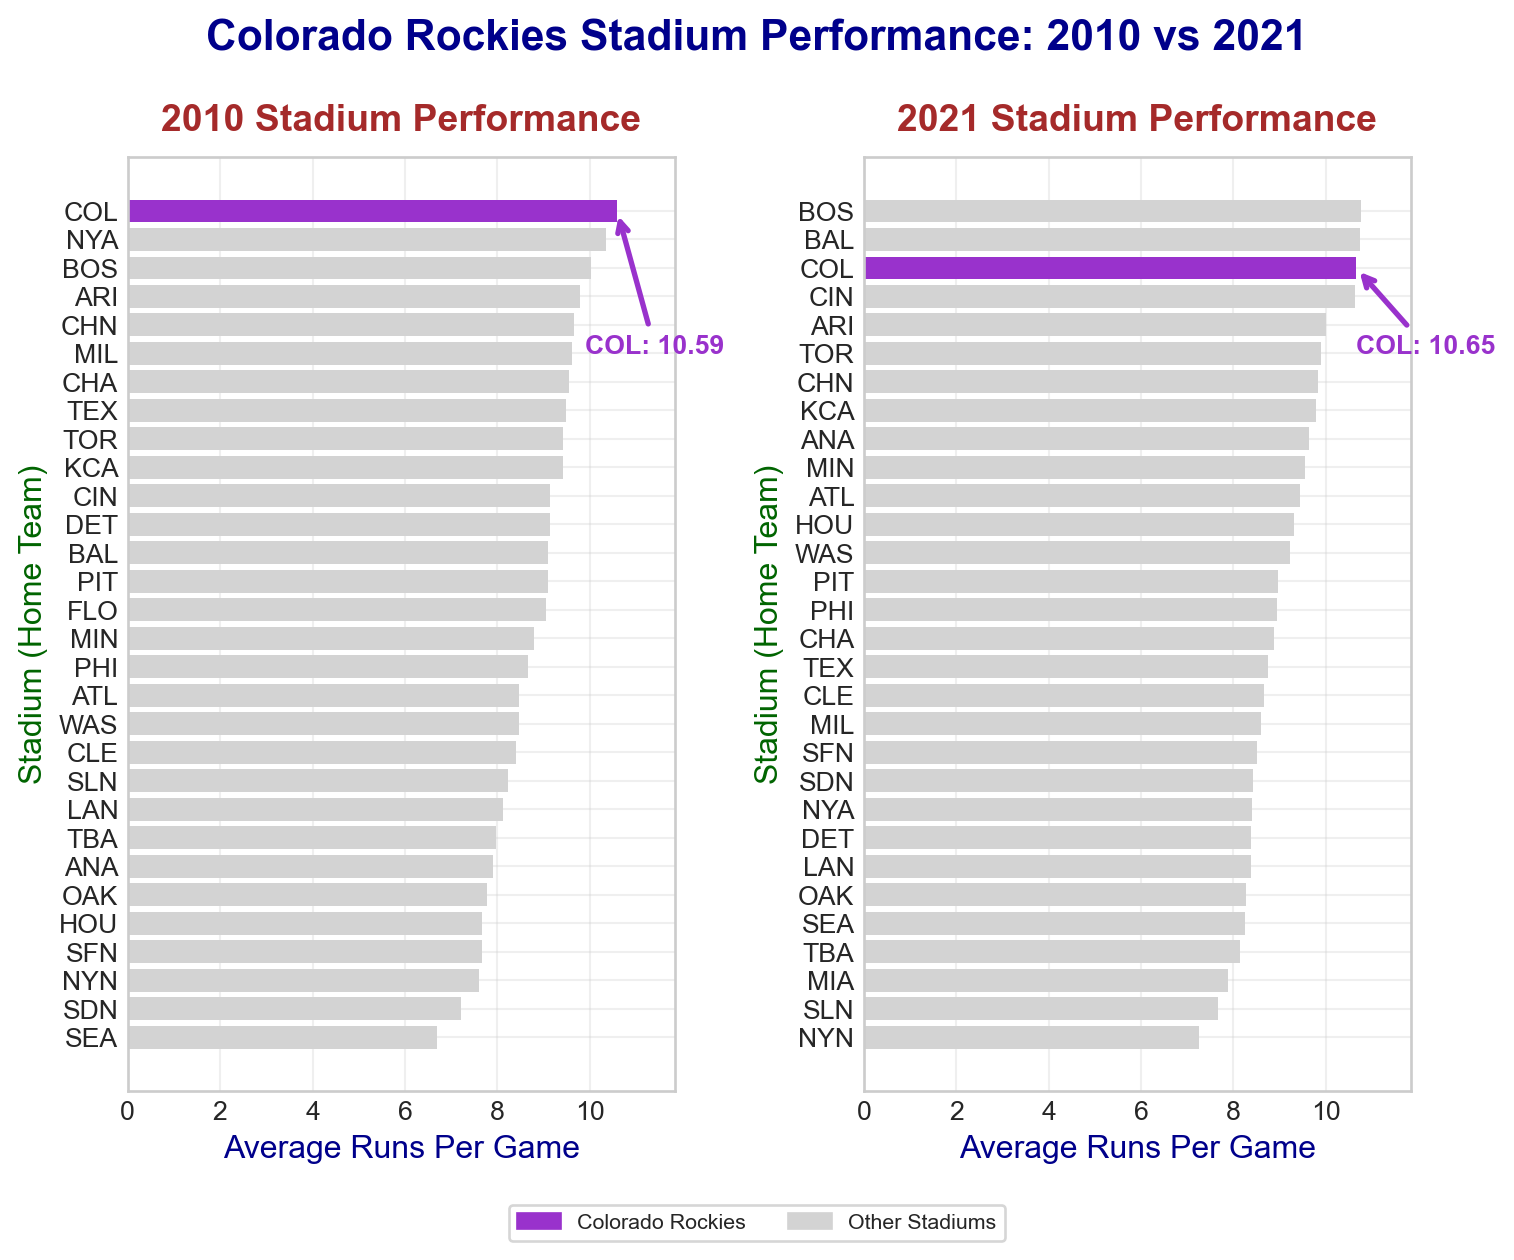
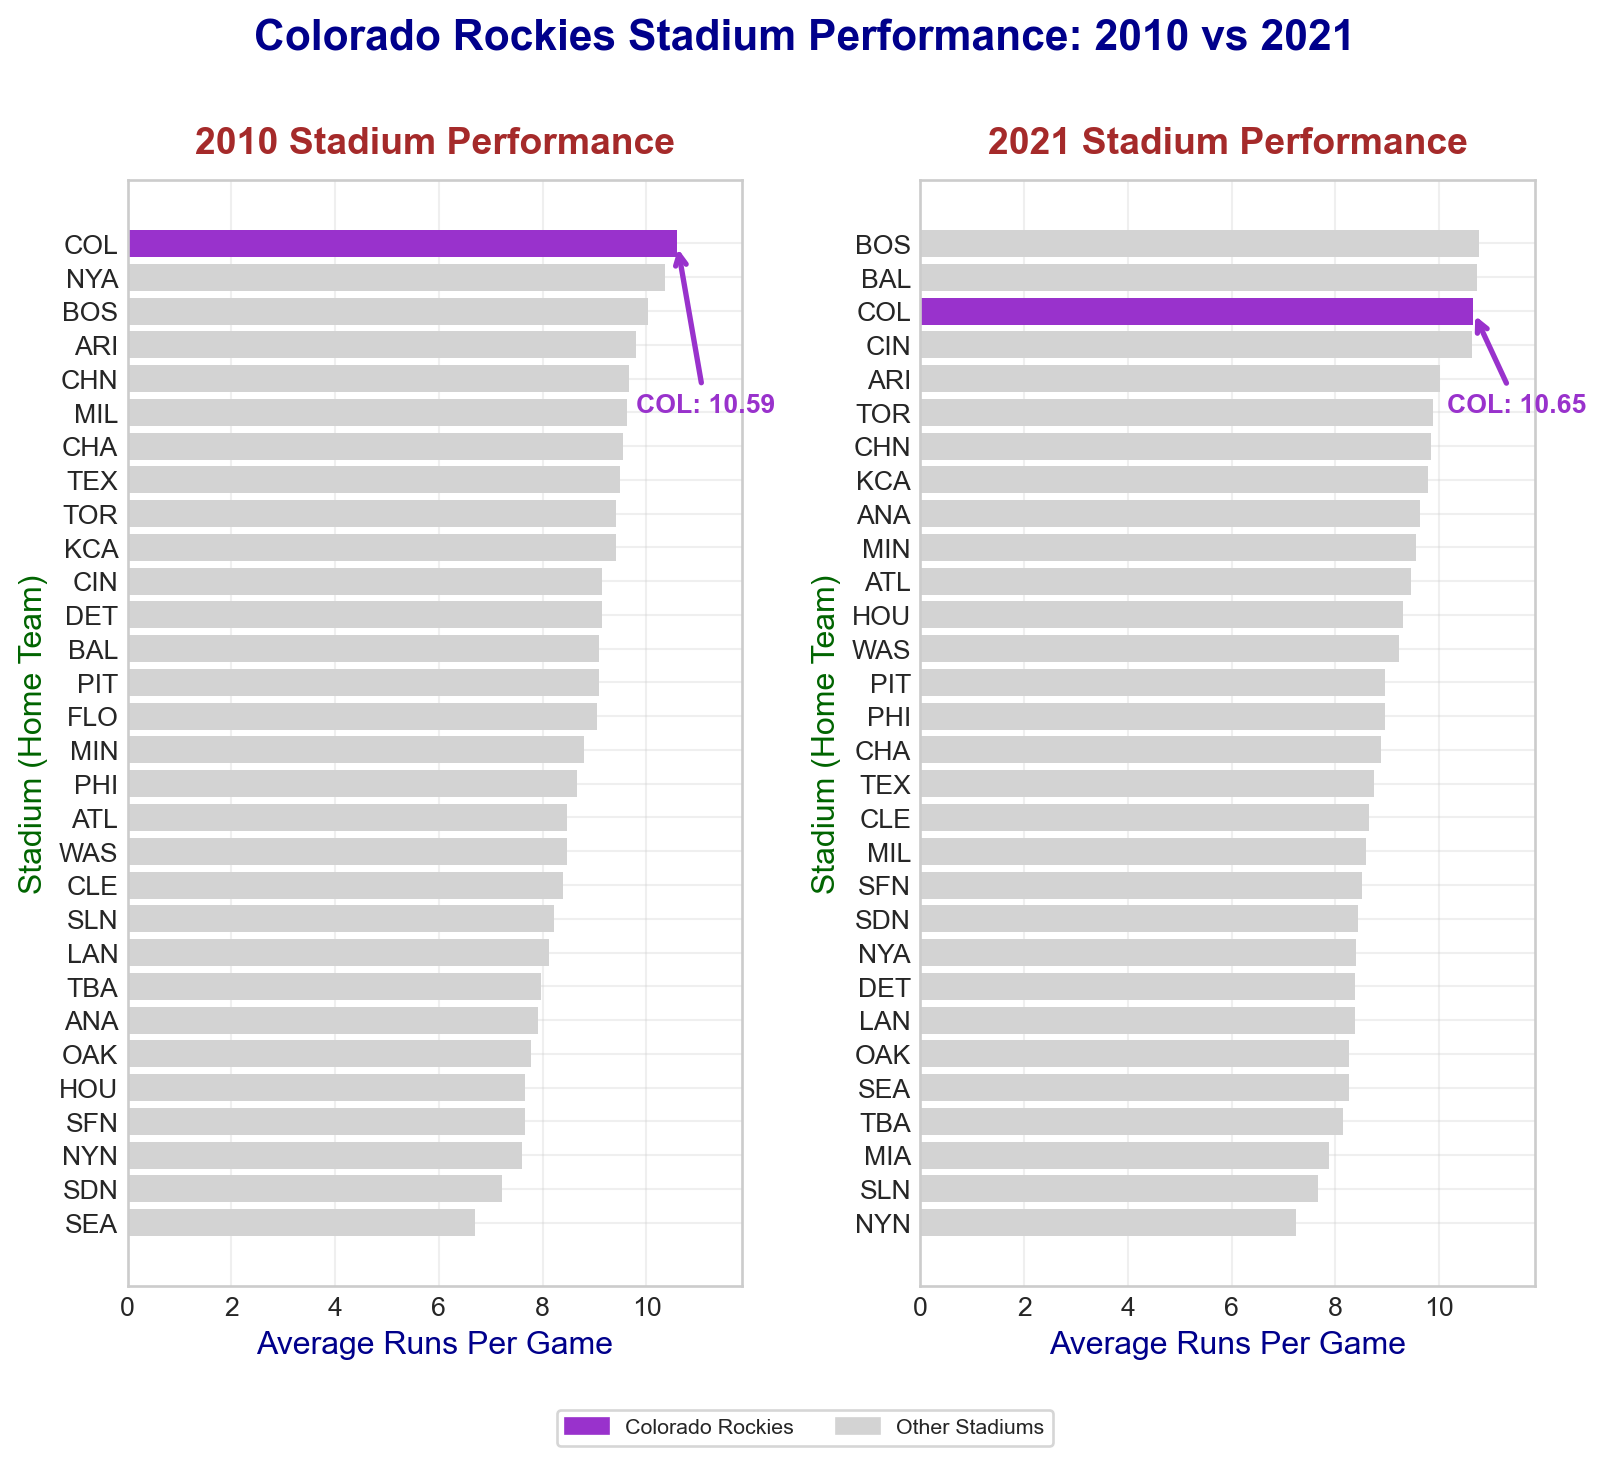
datavizchallenge

diff --git a/index.html b/index.html
@@ -302,7 +302,7 @@ First few rows of 2010 data:
 </div>
 </div>
 <p><strong>Answer:</strong></p>
-<div id="17a35d03" class="cell" data-execution_count="3">
+<div id="47ace347" class="cell" data-execution_count="3">
 <div class="code-copy-outer-scaffold"><div class="sourceCode cell-code" id="cb5"><pre class="sourceCode python code-with-copy"><code class="sourceCode python"><span id="cb5-1"><a href="#cb5-1" aria-hidden="true" tabindex="-1"></a><span class="bu">print</span>(<span class="ss">f"</span><span class="ch">\n</span><span class="ss">Total games in 2010: </span><span class="sc">{</span><span class="bu">len</span>(df2010)<span class="sc">}</span><span class="ss">"</span>)</span>
 <span id="cb5-2"><a href="#cb5-2" aria-hidden="true" tabindex="-1"></a><span class="bu">print</span>(<span class="ss">f"Total games in 2021: </span><span class="sc">{</span><span class="bu">len</span>(df2021)<span class="sc">}</span><span class="ss">"</span>)</span>
 <span id="cb5-3"><a href="#cb5-3" aria-hidden="true" tabindex="-1"></a><span class="bu">print</span>(<span class="ss">f"Total games across both seasons: </span><span class="sc">{</span><span class="bu">len</span>(df2010) <span class="op">+</span> <span class="bu">len</span>(df2021)<span class="sc">}</span><span class="ss">"</span>)</span>
@@ -333,7 +333,7 @@ First few rows of 2010 data:
 <ul>
 <li>There are total of 4859 games from 2010 and 2021 seasons. 2430 games in 2010 and 2429 games in 2021.</li>
 </ul>
-<div id="1685a4c7" class="cell" data-execution_count="4">
+<div id="3a50c1c7" class="cell" data-execution_count="4">
 <div class="code-copy-outer-scaffold"><div class="sourceCode cell-code" id="cb7"><pre class="sourceCode python code-with-copy"><code class="sourceCode python"><span id="cb7-1"><a href="#cb7-1" aria-hidden="true" tabindex="-1"></a>home_run_2010 <span class="op">=</span> df2010.groupby(<span class="st">'home'</span>).size().sort_values(ascending<span class="op">=</span><span class="va">False</span>)</span>
 <span id="cb7-2"><a href="#cb7-2" aria-hidden="true" tabindex="-1"></a><span class="bu">print</span>(home_run_2010.head(<span class="dv">3</span>))</span>
 <span id="cb7-3"><a href="#cb7-3" aria-hidden="true" tabindex="-1"></a></span>
@@ -442,7 +442,7 @@ dtype: int64</code></pre>
 <h2 class="anchored" data-anchor-id="stage-4-formatting-for-your-audience">Stage 4: Formatting for Your Audience</h2>
 <p><strong>Mental Model:</strong> Polish your visualization for professional presentation.</p>
 <p>Let’s create a publication-ready visualization:</p>
-<div id="ce992fac" class="cell" data-execution_count="6">
+<div id="3e87d8c0" class="cell" data-execution_count="6">
 <div class="code-copy-outer-scaffold"><div class="sourceCode cell-code" id="cb10"><pre class="sourceCode python code-with-copy"><code class="sourceCode python"><span id="cb10-1"><a href="#cb10-1" aria-hidden="true" tabindex="-1"></a><span class="co"># Stage 4: Formatting for Your Audience</span></span>
 <span id="cb10-2"><a href="#cb10-2" aria-hidden="true" tabindex="-1"></a><span class="co"># Create a professional, publication-ready visualization</span></span>
 <span id="cb10-3"><a href="#cb10-3" aria-hidden="true" tabindex="-1"></a></span>
@@ -538,7 +538,7 @@ Colorado is 20.8% above league average</code></pre>
 <li>The annotation can be fixed by moving it to the above for xy and xytext parameters of the annotation. As shown in the code above I have added 19.8 to the y-axis index to move the annotation above the bar.</li>
 </ul>
 <p>** Fixing the Annotation Placement:** - The annotation can be fixed by moving it to the above for xy and xytext parameters of the annotation. As shown in the code below I have added 19.8 to the y-axis index to move the annotation above the bar.</p>
-<div id="de7d9bf1" class="cell" data-execution_count="7">
+<div id="bcd2636a" class="cell" data-execution_count="7">
 <div class="code-copy-outer-scaffold"><div class="sourceCode cell-code" id="cb12"><pre class="sourceCode python code-with-copy"><code class="sourceCode python"><span id="cb12-1"><a href="#cb12-1" aria-hidden="true" tabindex="-1"></a><span class="co"># Fixing the annotation placement</span></span>
 <span id="cb12-2"><a href="#cb12-2" aria-hidden="true" tabindex="-1"></a><span class="co">#| label: stage-4-formatting</span></span>
 <span id="cb12-3"><a href="#cb12-3" aria-hidden="true" tabindex="-1"></a><span class="co">#| echo: true</span></span>
@@ -649,7 +649,7 @@ Colorado is 20.8% above league average</code></pre>
 <span id="cb14-6"><a href="#cb14-6" aria-hidden="true" tabindex="-1"></a>avgDF_2021_sorted <span class="op">=</span> avgDF_2021.sort_values(<span class="st">'totalRuns'</span>, ascending<span class="op">=</span><span class="va">True</span>)</span>
 <span id="cb14-7"><a href="#cb14-7" aria-hidden="true" tabindex="-1"></a></span>
 <span id="cb14-8"><a href="#cb14-8" aria-hidden="true" tabindex="-1"></a><span class="co"># Create figure with two subplots side by side</span></span>
-<span id="cb14-9"><a href="#cb14-9" aria-hidden="true" tabindex="-1"></a>fig, (ax1, ax2) <span class="op">=</span> plt.subplots(<span class="dv">1</span>, <span class="dv">2</span>, figsize<span class="op">=</span>(<span class="dv">8</span>, <span class="dv">6</span>))</span>
+<span id="cb14-9"><a href="#cb14-9" aria-hidden="true" tabindex="-1"></a>fig, (ax1, ax2) <span class="op">=</span> plt.subplots(<span class="dv">1</span>, <span class="dv">2</span>, figsize<span class="op">=</span>(<span class="fl">8.5</span>, <span class="dv">7</span>))</span>
 <span id="cb14-10"><a href="#cb14-10" aria-hidden="true" tabindex="-1"></a></span>
 <span id="cb14-11"><a href="#cb14-11" aria-hidden="true" tabindex="-1"></a><span class="co"># Define colors for highlighting Colorado</span></span>
 <span id="cb14-12"><a href="#cb14-12" aria-hidden="true" tabindex="-1"></a>colorado_colors_2010 <span class="op">=</span> [<span class="st">"darkorchid"</span> <span class="cf">if</span> stadium <span class="op">==</span> <span class="st">"COL"</span> <span class="cf">else</span> <span class="st">"lightgrey"</span> </span>
@@ -687,7 +687,7 @@ Colorado is 20.8% above league average</code></pre>
 <span id="cb14-44"><a href="#cb14-44" aria-hidden="true" tabindex="-1"></a>colorado_runs_2010 <span class="op">=</span> avgDF_2010_sorted[avgDF_2010_sorted.home <span class="op">==</span> <span class="st">"COL"</span>][<span class="st">"totalRuns"</span>].iloc[<span class="dv">0</span>]</span>
 <span id="cb14-45"><a href="#cb14-45" aria-hidden="true" tabindex="-1"></a>ax1.annotate(<span class="ss">f"COL: </span><span class="sc">{</span>colorado_runs_2010<span class="sc">:.2f}</span><span class="ss">"</span>, </span>
 <span id="cb14-46"><a href="#cb14-46" aria-hidden="true" tabindex="-1"></a>             xy<span class="op">=</span>(colorado_runs_2010, colorado_index_2010 <span class="op">+</span> <span class="dv">20</span>), </span>
-<span id="cb14-47"><a href="#cb14-47" aria-hidden="true" tabindex="-1"></a>             xytext<span class="op">=</span>(colorado_runs_2010 <span class="op">-</span> <span class="fl">0.7</span>, colorado_index_2010 <span class="op">+</span> <span class="dv">15</span>),</span>
+<span id="cb14-47"><a href="#cb14-47" aria-hidden="true" tabindex="-1"></a>             xytext<span class="op">=</span>(colorado_runs_2010 <span class="op">-</span> <span class="fl">0.8</span>, colorado_index_2010 <span class="op">+</span> <span class="dv">15</span>),</span>
 <span id="cb14-48"><a href="#cb14-48" aria-hidden="true" tabindex="-1"></a>             arrowprops<span class="op">=</span><span class="bu">dict</span>(arrowstyle<span class="op">=</span><span class="st">'-&gt;'</span>, color<span class="op">=</span><span class="st">'darkorchid'</span>, lw<span class="op">=</span><span class="dv">2</span>),</span>
 <span id="cb14-49"><a href="#cb14-49" aria-hidden="true" tabindex="-1"></a>             fontsize<span class="op">=</span><span class="dv">10</span>, fontweight<span class="op">=</span><span class="st">'bold'</span>, color<span class="op">=</span><span class="st">'darkorchid'</span>)</span>
 <span id="cb14-50"><a href="#cb14-50" aria-hidden="true" tabindex="-1"></a></span>
@@ -696,7 +696,7 @@ Colorado is 20.8% above league average</code></pre>
 <span id="cb14-53"><a href="#cb14-53" aria-hidden="true" tabindex="-1"></a>colorado_runs_2021 <span class="op">=</span> avgDF_2021_sorted[avgDF_2021_sorted.home <span class="op">==</span> <span class="st">"COL"</span>][<span class="st">"totalRuns"</span>].iloc[<span class="dv">0</span>]</span>
 <span id="cb14-54"><a href="#cb14-54" aria-hidden="true" tabindex="-1"></a>ax2.annotate(<span class="ss">f"COL: </span><span class="sc">{</span>colorado_runs_2021<span class="sc">:.2f}</span><span class="ss">"</span>, </span>
 <span id="cb14-55"><a href="#cb14-55" aria-hidden="true" tabindex="-1"></a>             xy<span class="op">=</span>(colorado_runs_2021, colorado_index_2021 <span class="op">+</span> <span class="dv">18</span>), </span>
-<span id="cb14-56"><a href="#cb14-56" aria-hidden="true" tabindex="-1"></a>             xytext<span class="op">=</span>(colorado_runs_2021, colorado_index_2021 <span class="op">+</span> <span class="dv">15</span>),</span>
+<span id="cb14-56"><a href="#cb14-56" aria-hidden="true" tabindex="-1"></a>             xytext<span class="op">=</span>(colorado_runs_2021 <span class="op">-</span> <span class="fl">0.5</span>, colorado_index_2021 <span class="op">+</span> <span class="dv">15</span>),</span>
 <span id="cb14-57"><a href="#cb14-57" aria-hidden="true" tabindex="-1"></a>             arrowprops<span class="op">=</span><span class="bu">dict</span>(arrowstyle<span class="op">=</span><span class="st">'-&gt;'</span>, color<span class="op">=</span><span class="st">'darkorchid'</span>, lw<span class="op">=</span><span class="dv">2</span>),</span>
 <span id="cb14-58"><a href="#cb14-58" aria-hidden="true" tabindex="-1"></a>             fontsize<span class="op">=</span><span class="dv">10</span>, fontweight<span class="op">=</span><span class="st">'bold'</span>, color<span class="op">=</span><span class="st">'darkorchid'</span>)</span>
 <span id="cb14-59"><a href="#cb14-59" aria-hidden="true" tabindex="-1"></a></span>
@@ -733,7 +733,7 @@ Colorado is 20.8% above league average</code></pre>
 <div class="cell-output cell-output-display">
 <div>
 <figure class="figure">
-<p><img src="index_files/figure-html/two-facet-visualization-output-1.png" id="two-facet-visualization" width="757" height="630" class="figure-img"></p>
+<p><img src="index_files/figure-html/two-facet-visualization-output-1.png" id="two-facet-visualization" width="803" height="733" class="figure-img"></p>
 </figure>
 </div>
 </div>
